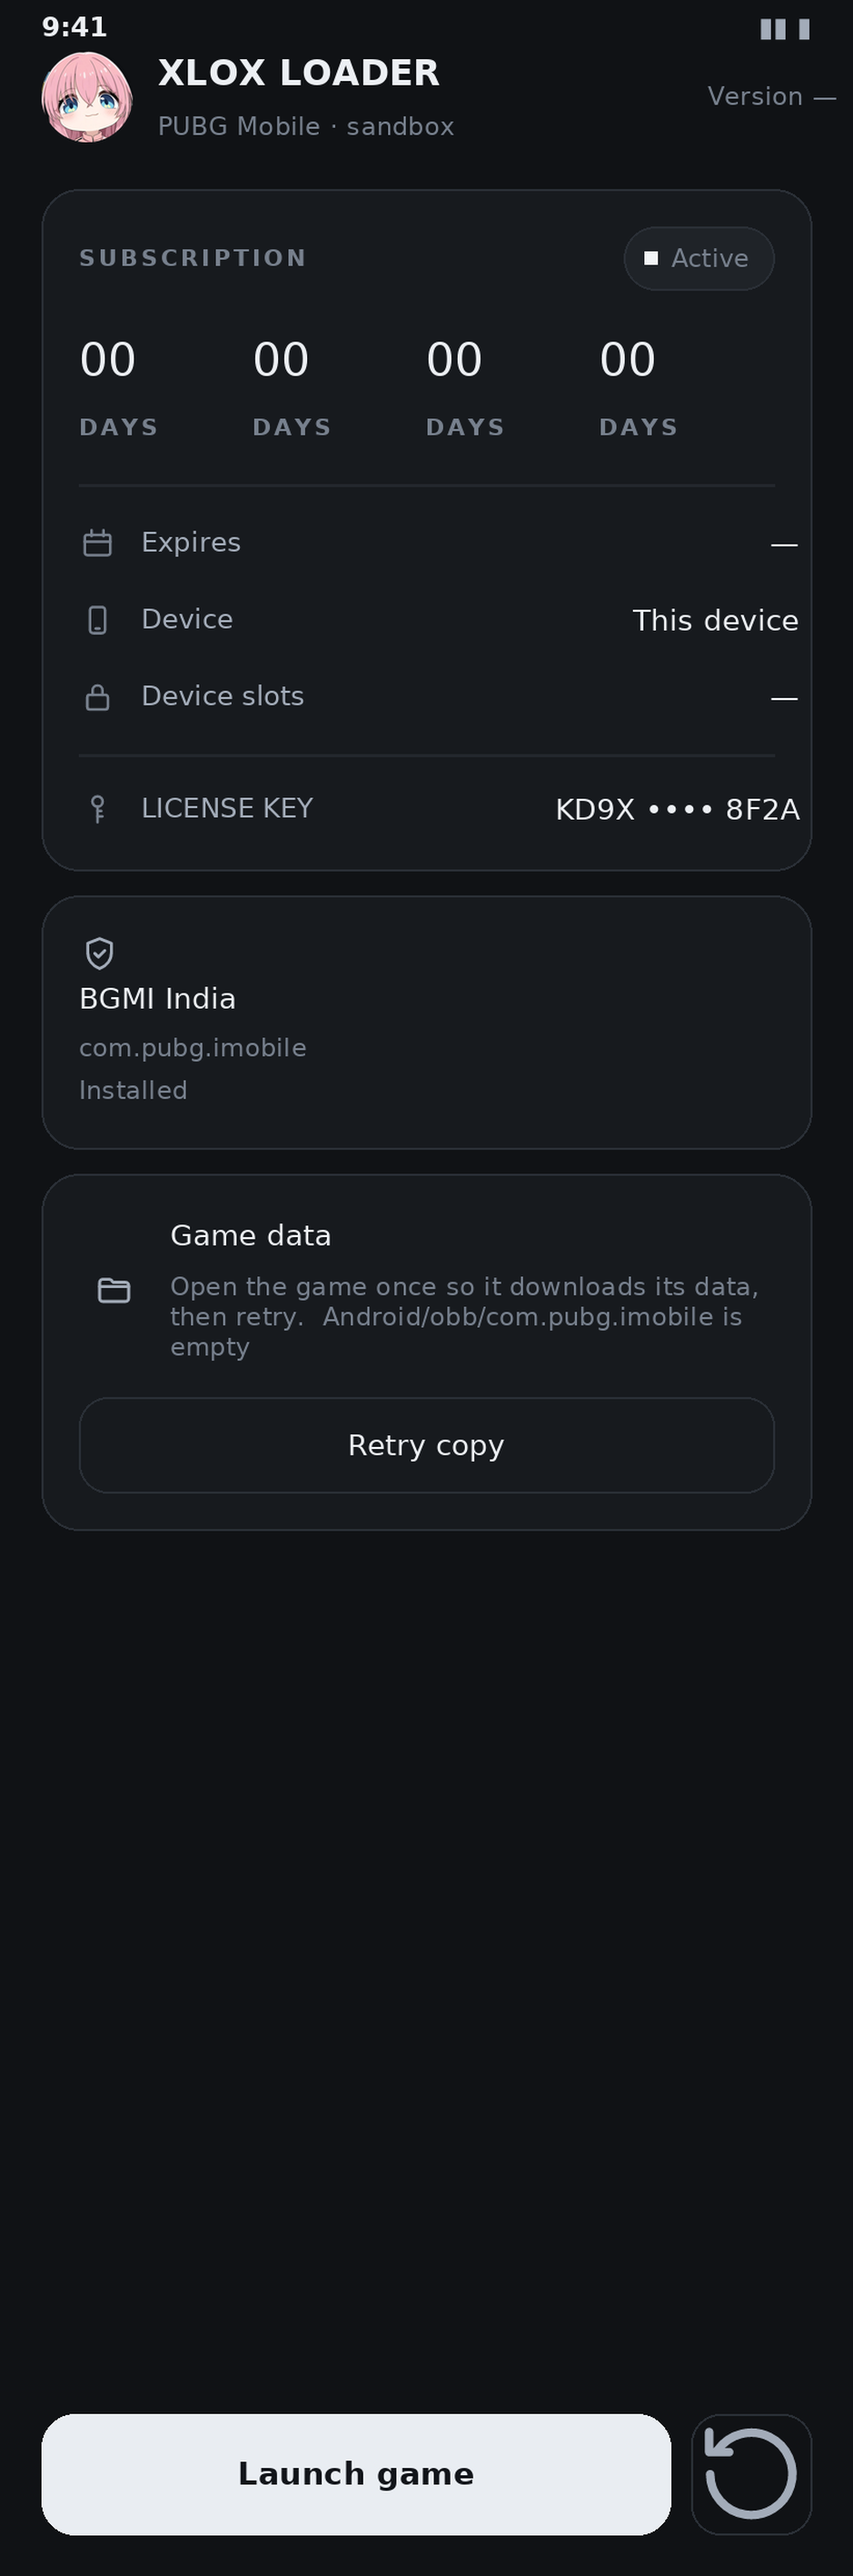
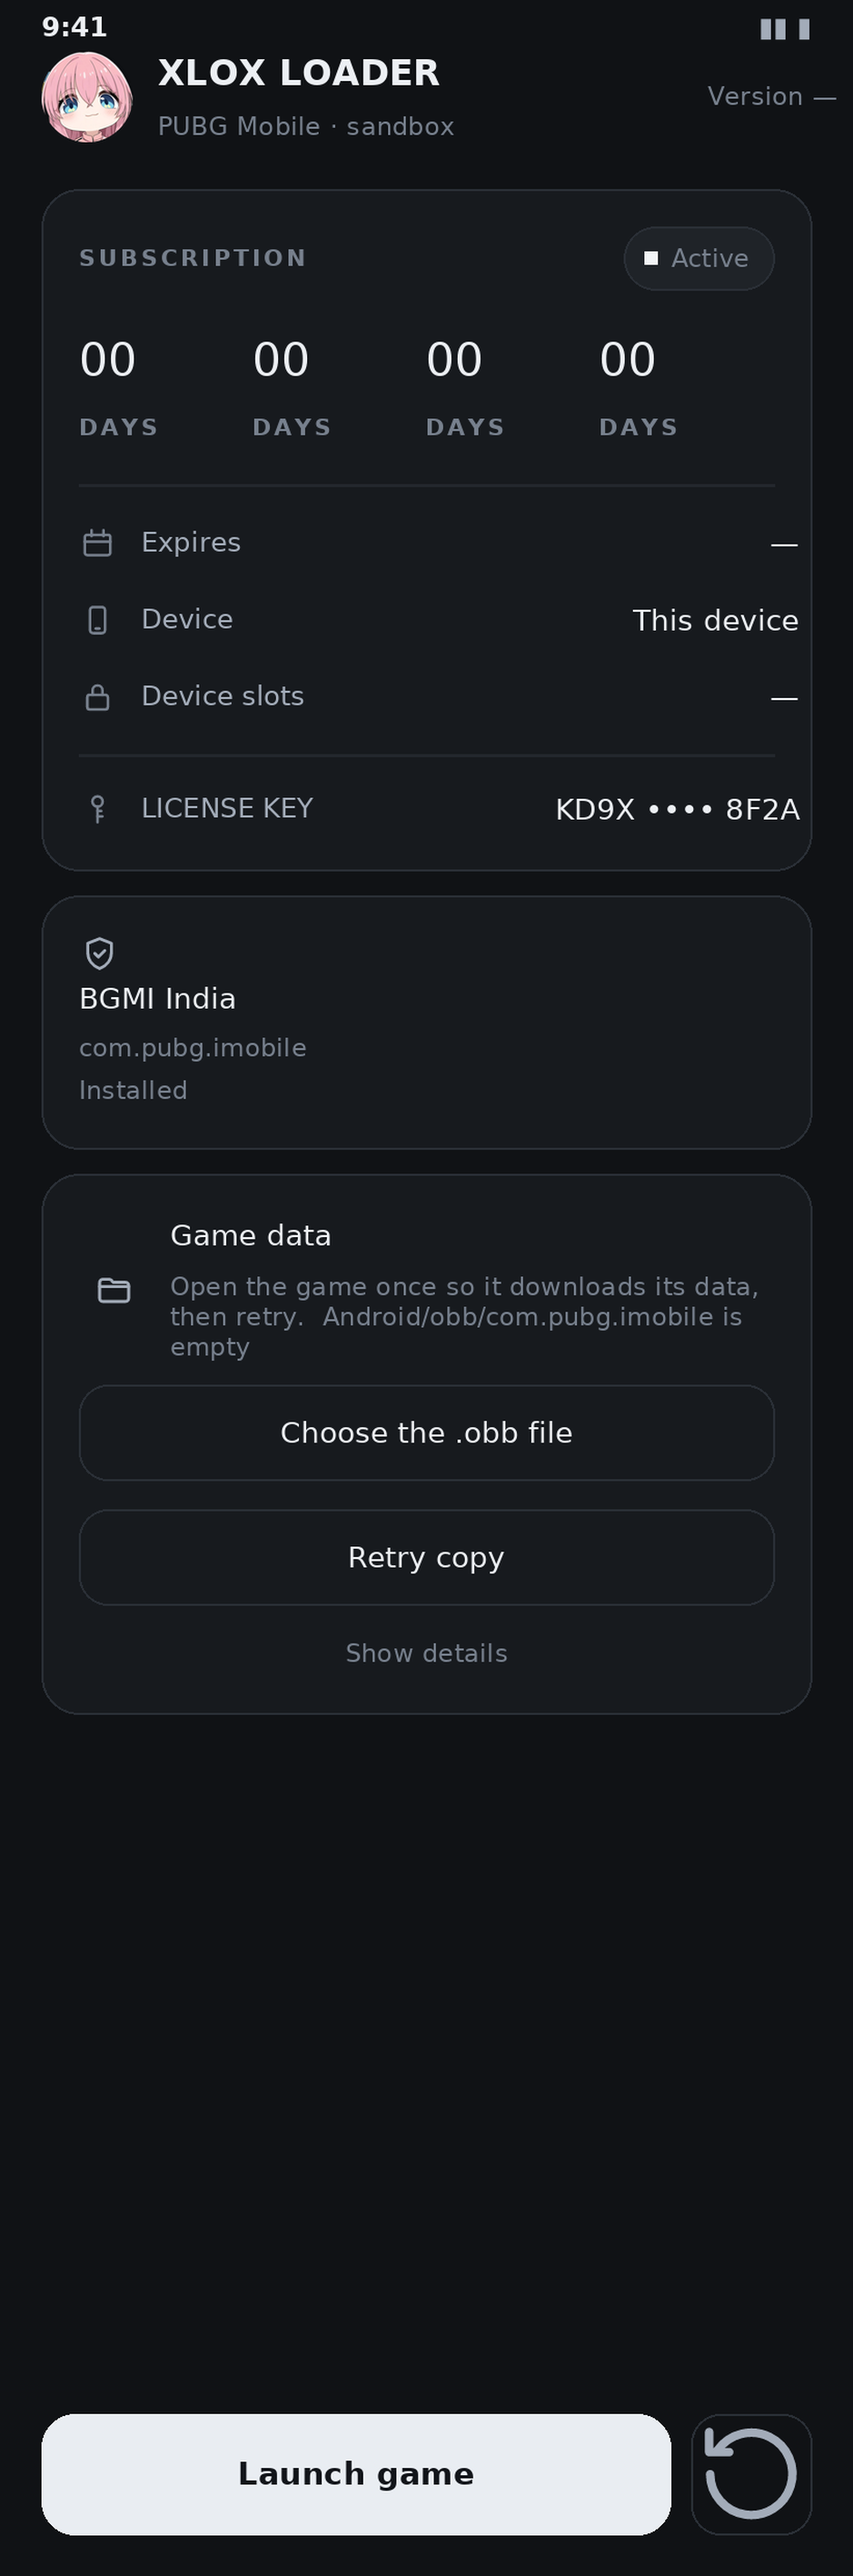
docs: how the OBB actually gets in on Android 11+

Changed region(s): [[0.3706, 0.5279, 0.525, 0.6521], [0.4941, 0.5279, 0.5868, 0.6521], [0.6177, 0.5279, 0.6486, 0.5589]]

diff --git a/docs/LOADER.md b/docs/LOADER.md
@@ -114,26 +114,35 @@ password `11111111` — **replace it**, the whole internet knows that one now).
 
 ## 4b. The game data (OBB) copy
 
-The loader copies the game's `.obb` files from shared storage into the sandbox
-before it offers LAUNCH. Two things decide whether that works:
+Two ways the game data gets into the sandbox, in this order:
 
-* **Permissions** — the manifest keeps the original loader's list. Trimming it
-  broke the sandbox boot and, with it, the copy. `MANAGE_EXTERNAL_STORAGE`
-  (the "All files access" special permission) is what makes
-  `/storage/emulated/0/Android/obb/<pkg>` readable on Android 11+.
-* **The gate** — before copying, the loader probes every place the data can
-  live: the primary volume under all its aliases plus real secondary volumes
-  (SD cards), and lists the `.obb` files it finds. A readable folder is enough
-  to start the copy, **even when the system still reports the grant as
-  missing** — some ROMs answer that question wrongly, and trusting it used to
-  stop the copy before it began.
+1. **Automatic copy** — if the phone lets the app read
+   `/storage/emulated/0/Android/obb/com.pubg.imobile`, the loader copies every
+   `.obb` it finds there and skips the rest of this section. That works on
+   Android 10 and below, and on some OEM builds.
+2. **Hand-over through the picker** — everything from Android 11 up. Google
+   closed the folder to third-party apps: `/Android/obb` and `/Android/data`
+   belong to the app whose name is on them, and **All files access
+   (`MANAGE_EXTERNAL_STORAGE`) does not open them** — it grants shared storage
+   *except* those two directories. Android 13 also closed the Storage Access
+   Framework loophole that file managers used to reach them. So no permission
+   can make the loader read that folder on a current phone; the file has to be
+   given to it. The card says so, and "Choose the .obb file" opens the system
+   picker. The read grant travels with the selected file, and the sandbox
+   folder is writable, so nothing blocks that route.
 
-If the card says the folder cannot be read, grant *All files access* in
-Settings → Apps → XLOX LOADER → Special access. If it says the folder is empty
-or missing, open the game once so it downloads its data.
+   The file must keep its name: `main.<version>.com.pubg.imobile.obb` (or
+   `patch.<version>…`). Anything else is rejected with a message saying what to
+   rename it to. Keeping the file in `Download` is the easiest place for the
+   picker to find it.
 
-The two decisions are plain Java (`ObbSelection`, `ObbAccess`) with JVM tests
-that the build workflow runs before compiling the APK:
+If copying fails, the card's **Show details** opens a report you can copy and
+send on: Android version, the grant state, every folder that was probed with
+what the filesystem answered (`exists`, `readable`, `.obb` count), the sandbox
+folder, free space and the last error.
+
+The two file decisions are plain Java (`ObbSelection`, `ObbAccess`) with JVM
+tests that the build workflow runs before compiling the APK:
 
 ```bash
 javac -d /tmp/obb loader/app/src/main/java/com/xlox/utils/ObbSelection.java \

diff --git a/docs/ui/README.md b/docs/ui/README.md
@@ -11,8 +11,8 @@ instead of drifting away from it:
 | `02b-verify.png` | sign in with a rejected key (inline error) |
 | `02c-dialog.png` | the "checking your key" dialog |
 | `03-main.png` | loader, key good, game data ready |
-| `04-file-access.png` | loader asking for all-files access before the OBB copy |
-| `04b-no-data.png` | OBB folder readable but empty — the card names the folder it checked |
+| `04-file-access.png` | the game data card: pick the .obb, or grant access |
+| `04b-no-data.png` | the folder was readable but empty — the card names what it checked |
 | `05-license-failed.png` | loader after the panel rejected the key |
 
 `overview.png` is all eight, four per row. The app is dark by default.
